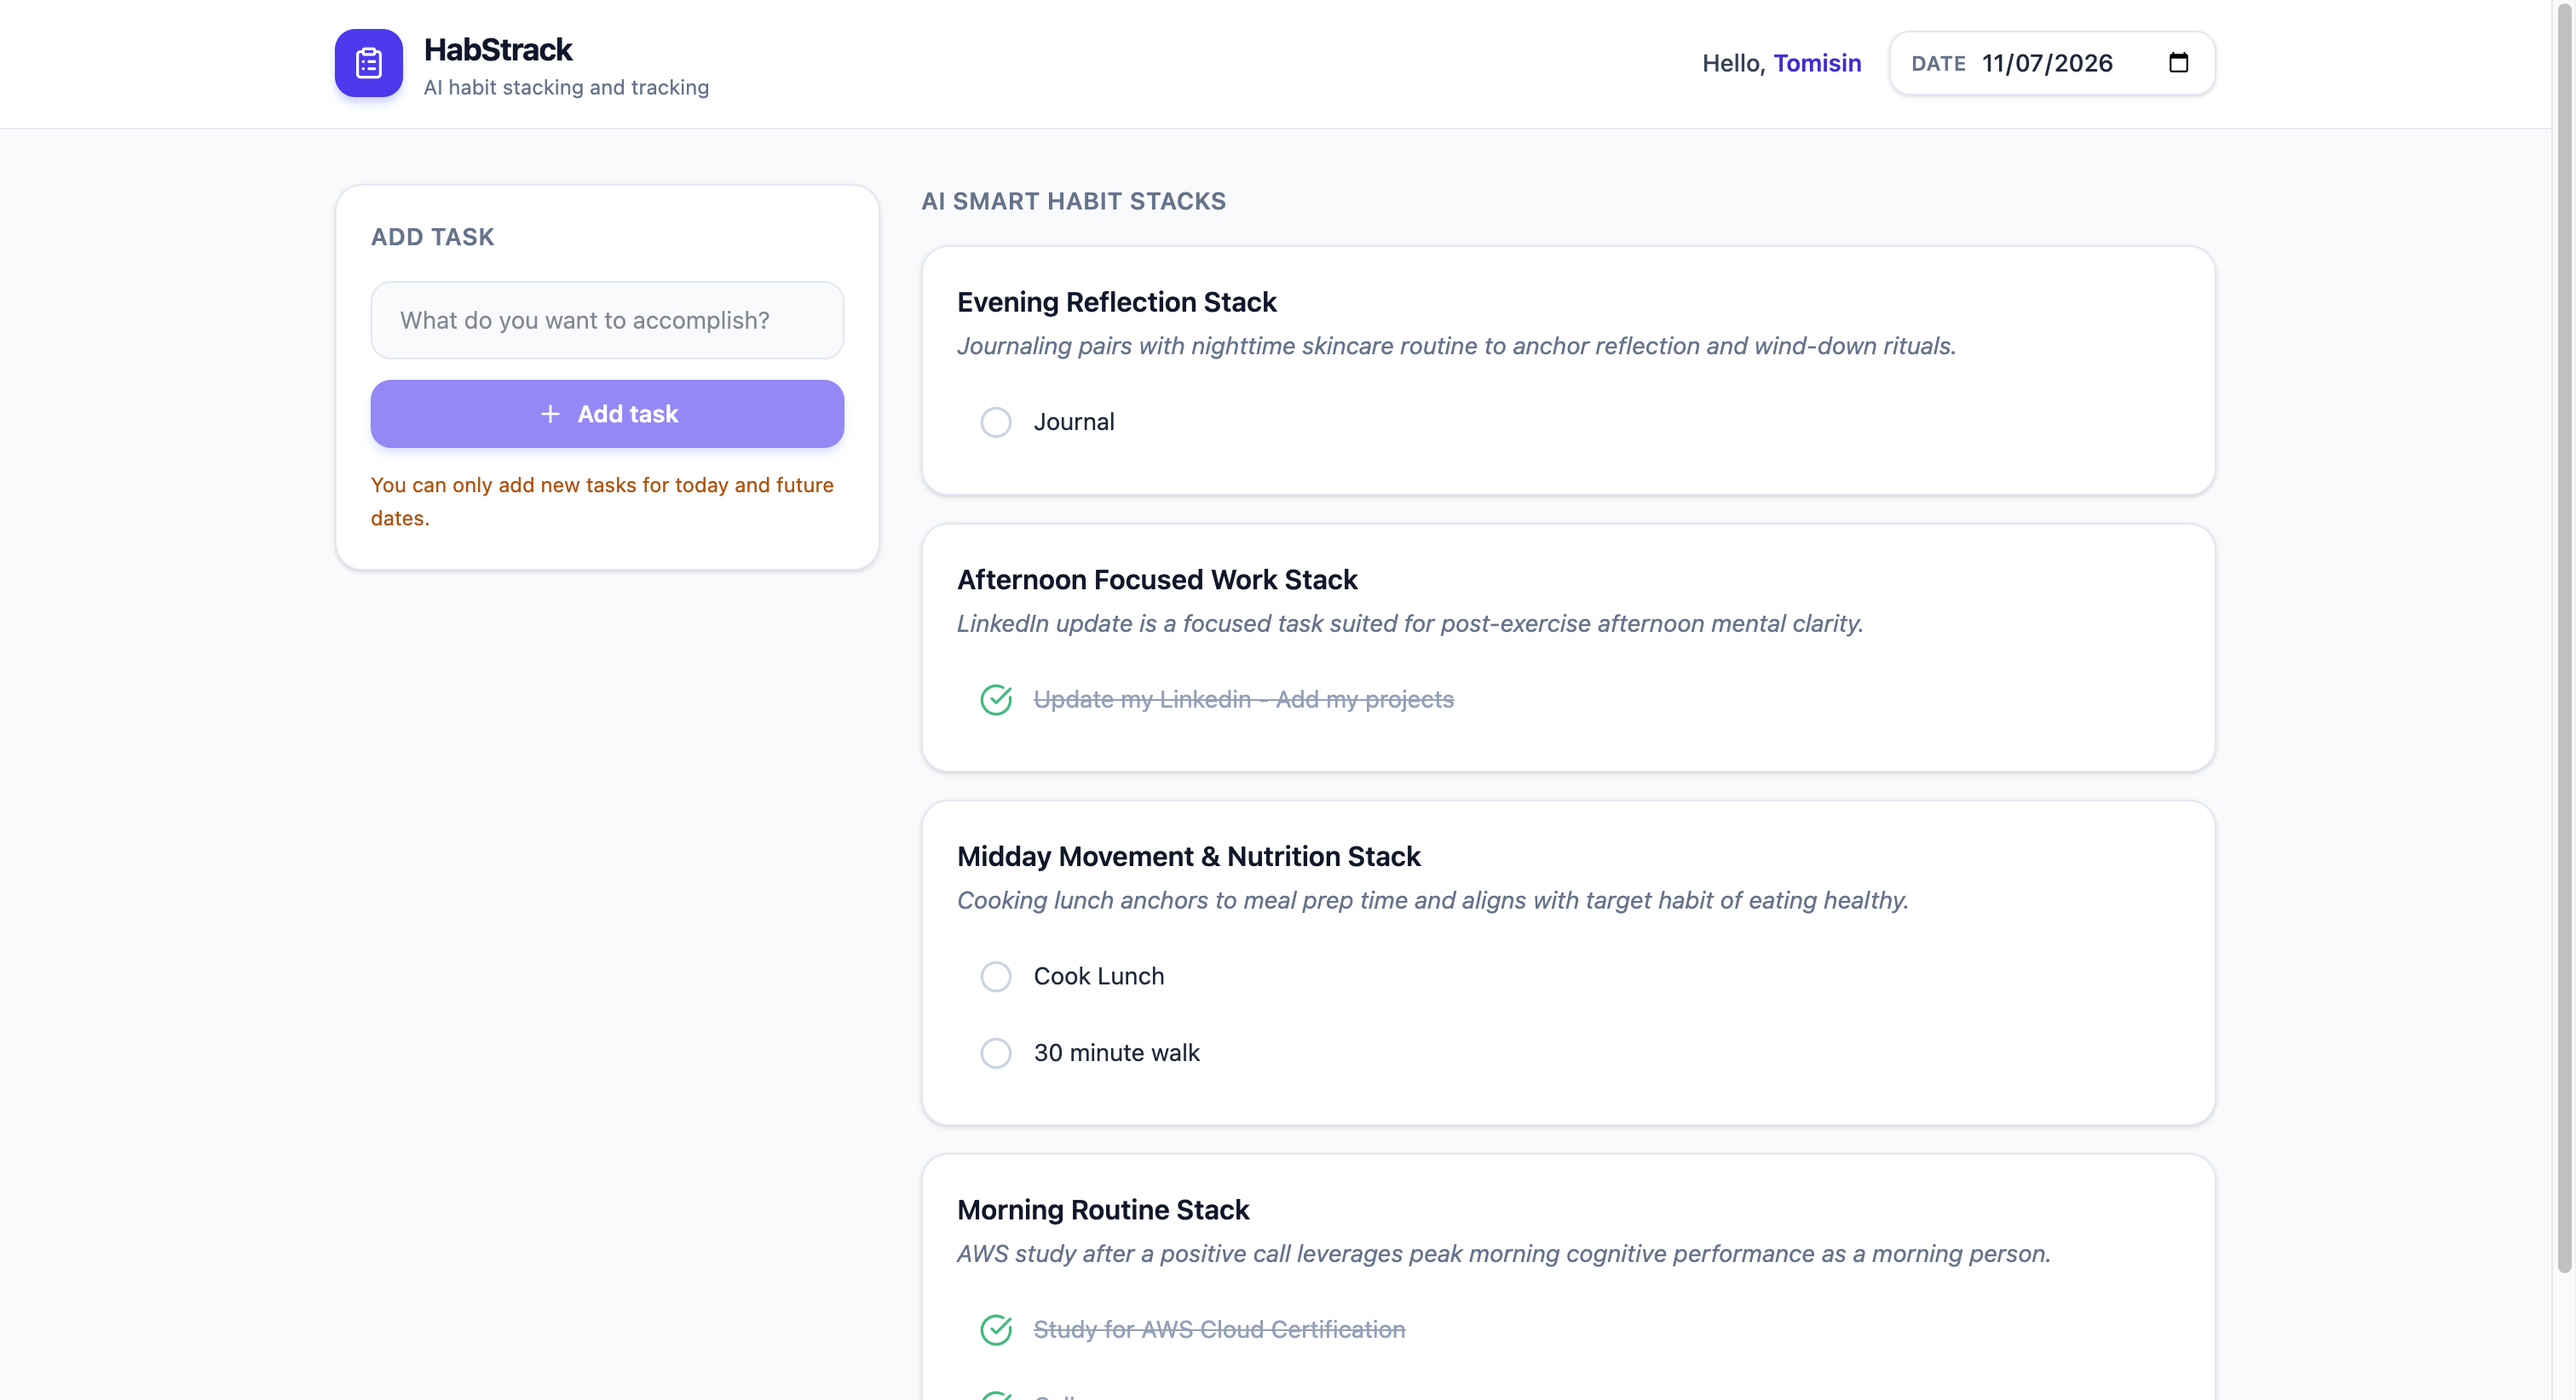
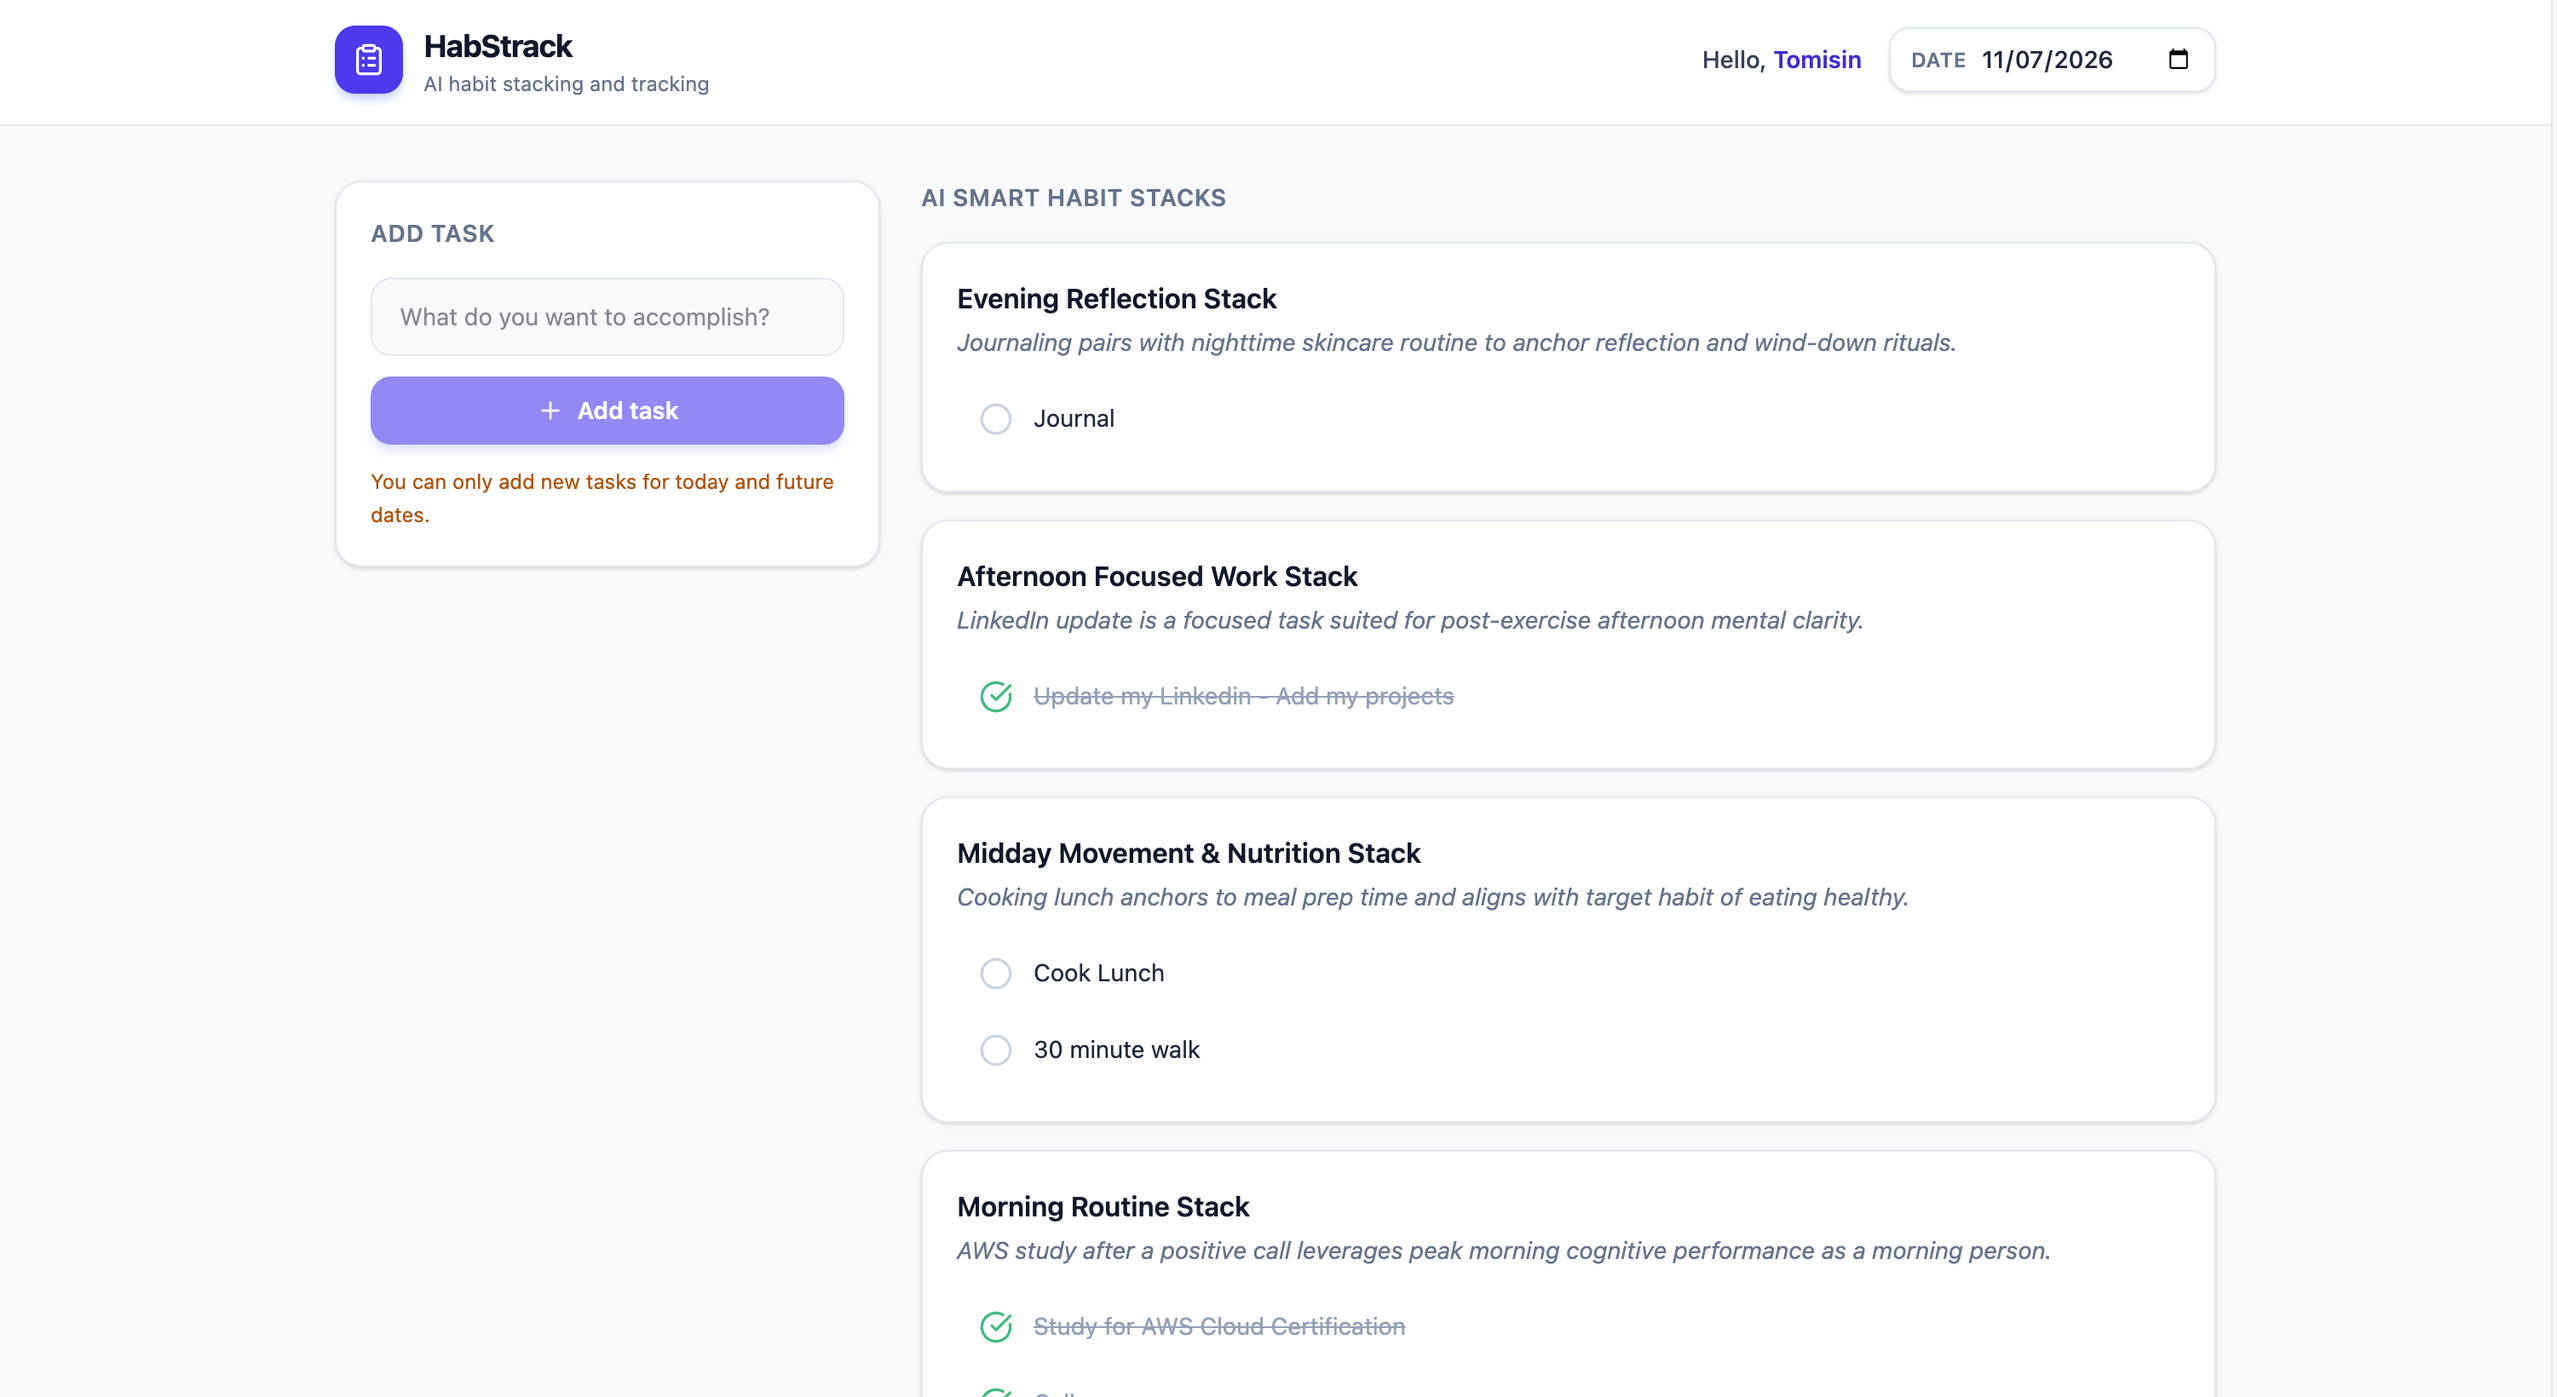
updated projects section📁

diff --git a/app/ui/Hero.tsx b/app/ui/Hero.tsx
@@ -9,14 +9,26 @@ export default function Hero(){
                 <h1 className='text-[1.75rem] mt-10 font-bold xs:text-3xl sm:text-4xl'>Hi there, I’m Tomisin</h1>
                 <h3 className='text-[1.3rem] mt-1 font-medium sm:text-2xl sm:mt-4'>I love writing code</h3>
                 <p className={`mt-1 leading-[1.3rem] text-[1rem] ${libre_franklin.className} antialiased xs:text-[1.1rem] xs:mt-2 sm:mt-4 sm:text-[1.1rem] sm:leading-[1.4rem]`}>I’m a software engineer based in Abuja, Nigeria, passionate about leveraging AI and cloud technologies in building innovative software solutions to real-world problems.</p>
-                <Link href="/tomisin_ak_resume.pdf" target='_blank' download={true} title="Download Resume" className='w-fit mt-10 mx-auto flex border-[0.1rem] border-blue-900 text-center items-center text-blue-900 pl-2 pr-4 py-0.5 rounded-md gap-[0.25rem] transition-all ease-in-out duration-100 hover:bg-blue-900 hover:text-white hover:border-[0.15rem] text-[1rem] dark:hover:border-blue-400 dark:hover:text-blue-400
-                dark:hover:bg-black dark:bg-white
-                dark:text-black dark:border-white'>
-                    <span className="material-symbols-rounded hover:[--font-FILL:1] hover:[--font-wght:600]">
-                        download
-                    </span>  
-                    Resume       
-                </Link>
+                <div className='flex'>
+                    <Link href="/tomisin_ak_resume.pdf" target='_blank' download={true} title="Download Resume" className='w-fit mt-10 mx-auto flex border-[0.1rem] border-blue-900 text-center items-center text-blue-900 pl-2 pr-4 py-0.5 rounded-md gap-[0.25rem] transition-all ease-in-out duration-100 hover:bg-blue-900 hover:text-white hover:border-[0.15rem] text-[1rem] dark:hover:border-blue-400 dark:hover:text-blue-400
+                    dark:hover:bg-black dark:bg-white
+                    dark:text-black dark:border-white'>
+                        <span className="material-symbols-rounded hover:[--font-FILL:1] hover:[--font-wght:600]">
+                            download
+                        </span>  
+                        Resume       
+                    </Link>
+                    {/* <Link href="/tomisin_ak_resume.pdf" target='_blank' download={true} title="Download Resume" className='w-fit h-fit mt-10 mx-auto flex border-[0.1rem] border-blue-900 text-center items-center text-blue-900 pl-2 pr-4 py-0.5 rounded-md gap-[0.25rem] transition-all ease-in-out duration-100 hover:bg-blue-900 hover:text-white hover:border-[0.15rem] text-[1rem] dark:hover:border-blue-400 dark:hover:text-blue-400
+                    dark:hover:bg-black dark:bg-white
+                    dark:text-black dark:border-white'>
+                        <span className="material-symbols-rounded hover:[--font-FILL:1] hover:[--font-wght:600]">
+                            download
+                        </span>  
+                        Resume       
+                    </Link> */}
+                </div>
+                
+    
             </div>
         </section>
     )

diff --git a/app/ui/Projects.tsx b/app/ui/Projects.tsx
@@ -93,12 +93,12 @@ export default function Projects(){
                                 alt={`${proj.proj_name} project screenshot`}
                                 width={50000}
                                 height={100}
-                                className='border-[1px] border-solid border-black blur-[2px] rounded-2xl w-[100%] h-[auto]'
+                                className='border-[1px] border-solid border-black grayscale-50 rounded-2xl w-[100%] h-[auto]'
                             />
                         )
                     })}
                 </div>
-                <div className='absolute top-1/2 left-1/2 -translate-x-1/2 -translate-y-1/2 flex flex-col gap-y-2 text-center bg-blue-900 text-white pt-8 pb-4 px-20 w-[38rem] rounded-xl hidden lg:flex'>
+                <div className='absolute top-3/4 left-1/2 -translate-x-1/2 -translate-y-1/2 flex flex-col gap-y-2 text-center bg-blue-900 text-white pt-8 pb-4 px-20 w-[38rem] rounded-xl hidden lg:flex'>
                     <p className='text-[1.9rem] font-bold'>{projectsSlides[activeIndex].proj_name}</p>
                     <p className={`${libre_franklin.className} antialiased text-justify`}>{projectsSlides[activeIndex].proj_descr}</p>
                     <p className='font-medium text-[0.9rem] '>{listItems(projectsSlides[activeIndex].tech_used)}</p>

diff --git a/app/ui/Contact.tsx b/app/ui/Contact.tsx
@@ -13,7 +13,7 @@ export default function Contact() {
     return (
         <section id="contact" className="mt-20 mx-5 sm:mx-10 lg:mx-20 xl:mx-40 dark:text-white">
                 <h1 className="font-semibold text-[1.4rem] xs:text-2xl">Contact Me</h1>
-                <p className="mt-4 mb-4">You can reach out to me via any of these platforms.</p>
+                <p className="mt-4 mb-4">Feel free to reach out to me via any of these platforms.</p>
                 <div className="flex flex-col gap-4 xs:flex-row xs:gap-10">{
                     contactMediums.map((medium, index) => ( 
                         <ContactItem key={index} contact_medium={medium.contact_medium} link={medium.link} sub_text={medium.sub_text} main_text={medium.main_text} />
